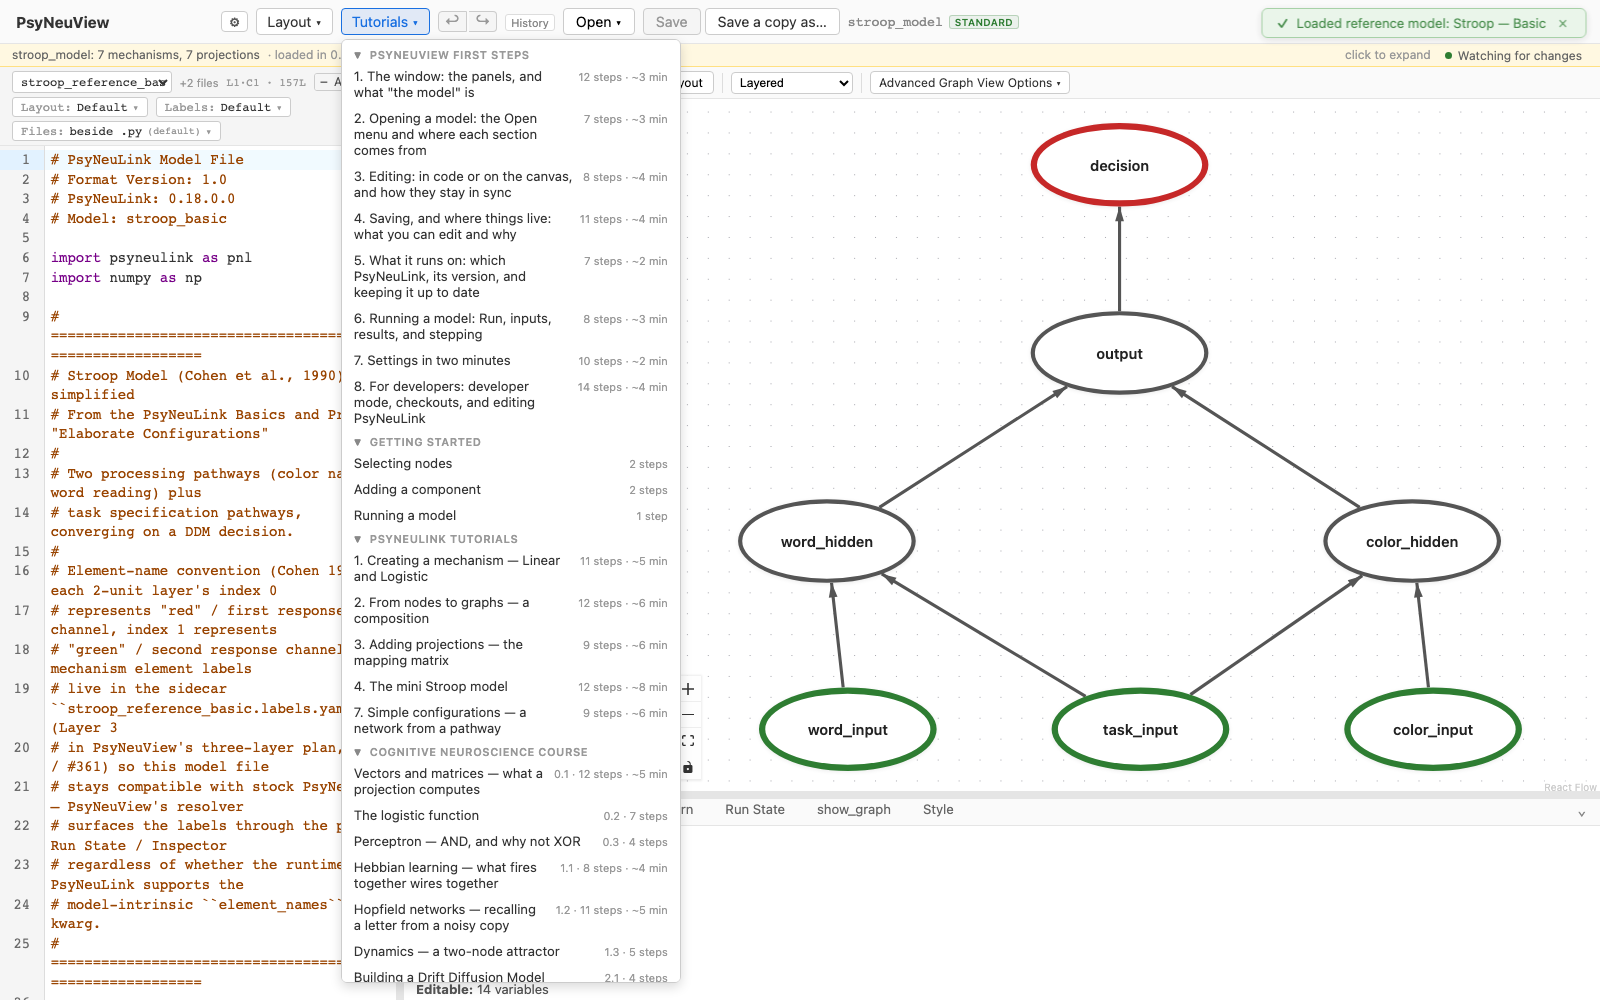
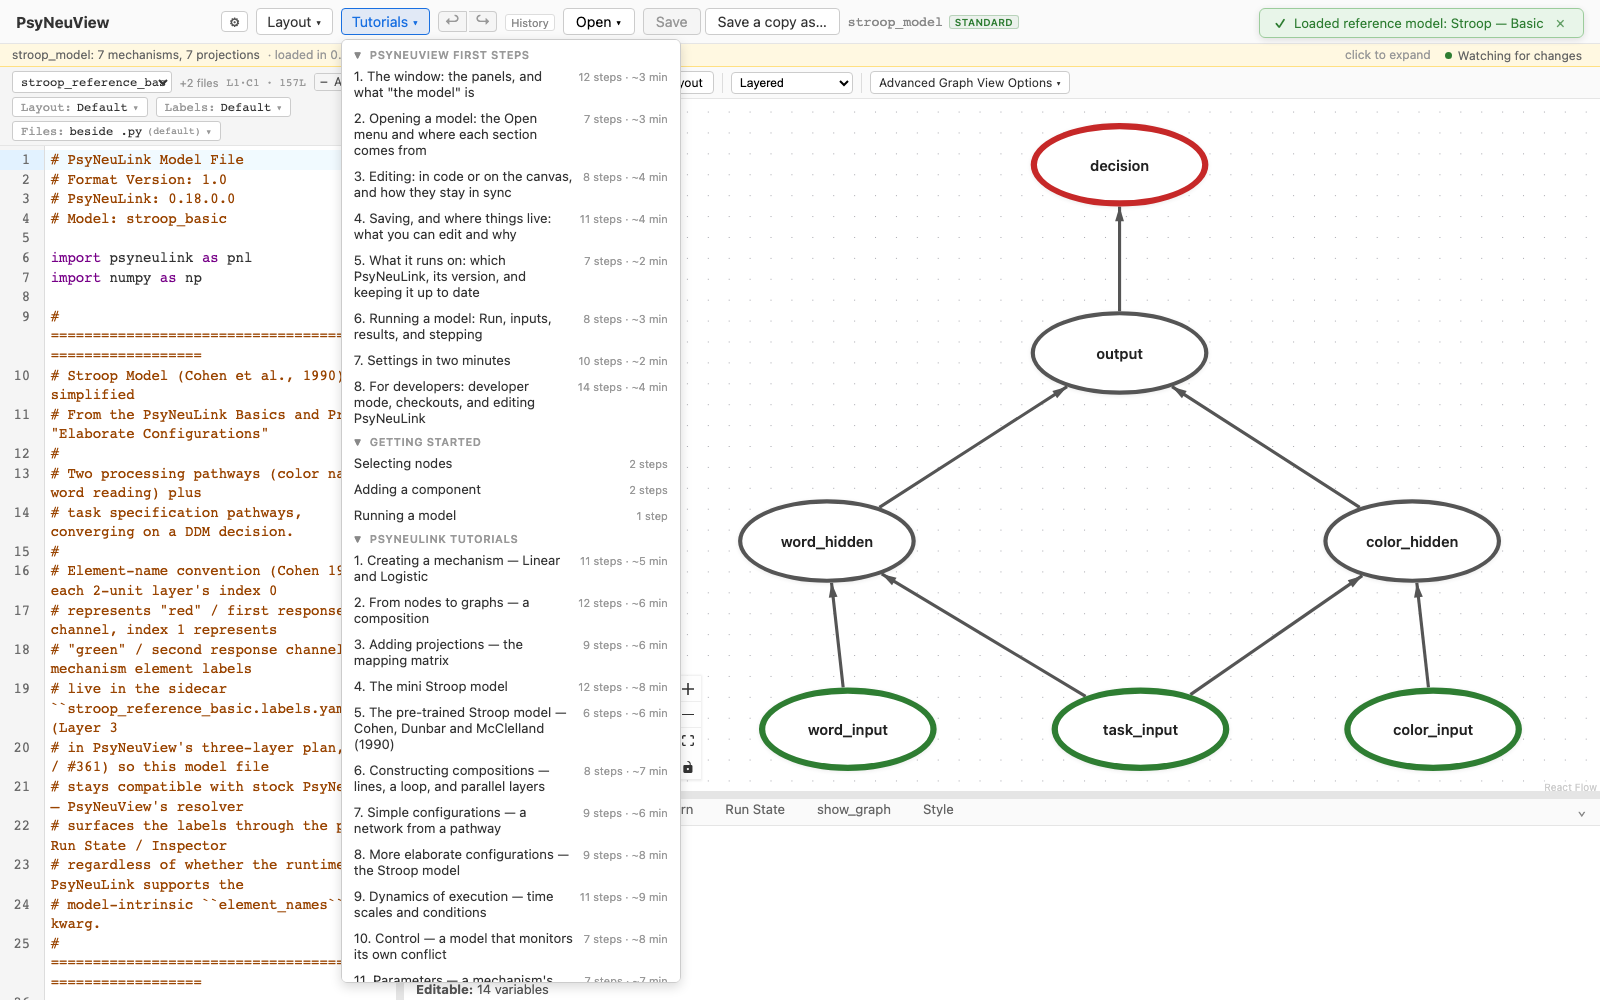
Hide the Cognitive Neuroscience Course by default, and credit its source (#136)
The course is for people taking it; most aren't. Settings ▸ Tutorials and
Voice ▸ Hide the Cognitive Neuroscience Course is now ticked by default, and
unticking it brings the section back. A walkthrough opened by link runs
either way, and an explicit choice already saved stands.

The setting's description links to the course's notebooks in PsyNeuLink's
repository: "Based on the Cognitive Neuroscience Course by Princeton
University's PsyNeuLink team".

Specs that need the course in the menu call showCourse() from test-base,
the way showSchedulingArrows() works.

Changed region(s): [[0.2188, 0.713, 0.4375, 0.992], [0.7812, 0.0, 0.9688, 0.031]]

diff --git a/frontend/e2e/tutorials-hide-course.spec.ts b/frontend/e2e/tutorials-hide-course.spec.ts
@@ -2,8 +2,9 @@
  * Settings ▸ Tutorials and Voice ▸ Tutorials ▸ Hide the Cognitive
  * Neuroscience Course (#136).
  *
- * Off by default, so the course's section is in the Tutorials menu. Turning
- * it on takes that one section out, the choice survives a reload, and a
+ * On by default, so the course's section is not in the Tutorials menu until
+ * someone taking the course unticks the box. Unticking brings that one section
+ * back, ticking takes it out again, each choice survives a reload, and a
  * course walkthrough opened by link still runs: hiding is about the menu only.
  */
 import { readOnlyTest, mutatingTest, expect } from "./test-base";
@@ -17,19 +18,34 @@ async function openMenu(page: Page) {
 }
 
 readOnlyTest.describe("Hide the Cognitive Neuroscience Course", { tag: "@ci" }, () => {
-  readOnlyTest("the course shows by default, and the setting hides it until a reload and after", async ({ page }) => {
+  readOnlyTest("the course is hidden by default, and the setting shows and hides it across reloads", async ({ page }) => {
     await page.goto("/");
     expect(await page.evaluate((k) => localStorage.getItem(k), HIDE_COURSE_KEY)).toBeNull();
     await openMenu(page);
-    await expect(page.getByTestId("walkthrough-group-course")).toBeVisible();
     await expect(page.getByTestId("walkthrough-group-general")).toBeVisible();
+    await expect(page.getByTestId("walkthrough-group-course")).toHaveCount(0);
     await page.keyboard.press("Escape");
 
+    // Unticking shows the course, and the choice survives a reload.
     await page.getByTestId("settings-button").click();
     await page.getByTestId("settings-section-tutorials-voice").click();
     const box = page.getByTestId("setting-hide-course");
-    await expect(box).not.toBeChecked();
-    await box.check();
+    await expect(box).toBeChecked();
+    await box.uncheck();
+    expect(await page.evaluate((k) => localStorage.getItem(k), HIDE_COURSE_KEY)).toBe("off");
+    await page.keyboard.press("Escape");
+    await openMenu(page);
+    await expect(page.getByTestId("walkthrough-group-course")).toBeVisible();
+    await page.keyboard.press("Escape");
+    await page.reload();
+    await openMenu(page);
+    await expect(page.getByTestId("walkthrough-group-course")).toBeVisible();
+    await page.keyboard.press("Escape");
+
+    // Ticking hides it again.
+    await page.getByTestId("settings-button").click();
+    await page.getByTestId("settings-section-tutorials-voice").click();
+    await page.getByTestId("setting-hide-course").check();
     expect(await page.evaluate((k) => localStorage.getItem(k), HIDE_COURSE_KEY)).toBe("on");
     await page.keyboard.press("Escape");
 

diff --git a/frontend/src/components/common/settings/TutorialsVoiceSection.tsx b/frontend/src/components/common/settings/TutorialsVoiceSection.tsx
@@ -29,7 +29,7 @@ import {
 } from "@/stores/tourHighlightStore";
 import { NarrationVoiceSetting } from "./NarrationVoiceSetting";
 import { useTutorialsMenuStore } from "@/stores/tutorialsMenuStore";
-import { Group, SettingLabel, mutedStyle, selectStyle } from "./shared";
+import { Group, SettingLabel, linkStyle, mutedStyle, selectStyle } from "./shared";
 
 export function TutorialsVoiceSection() {
   return (
@@ -120,11 +120,17 @@ function OrientationReminderSetting() {
   );
 }
 
+/** Where the course comes from: its notebooks in PsyNeuLink's repository. */
+const COURSE_SOURCE_URL =
+  "https://github.com/PrincetonUniversity/PsyNeuLink/tree/docs/refactor-documentation/docs/source/tutorials/cognitive_neuroscience_course";
+
 /**
  * Whether the Tutorials menu lists the Cognitive Neuroscience Course (#136).
- * Off by default, so the course shows. Hiding it is about the menu only: a
- * course walkthrough opened by link still runs.
+ * On by default, so the course is hidden until someone taking it unticks the
+ * box. Hiding it is about the menu only: a course walkthrough opened by link
+ * still runs. The attribution says where the course comes from.
  */
+
 function HideCourseSetting() {
   const hideCourse = useTutorialsMenuStore((s) => s.hideCourse);
   const setHideCourse = useTutorialsMenuStore((s) => s.setHideCourse);
@@ -140,8 +146,15 @@ function HideCourseSetting() {
       <span>
         Hide the Cognitive Neuroscience Course
         <span style={{ ...mutedStyle, display: "block" }}>
-          Leaves the course's walkthroughs out of the Tutorials menu. A course walkthrough opened by link still runs.
-          Remembered in this browser.
+          Leaves the course's walkthroughs out of the Tutorials menu; untick it to take the course. A course
+          walkthrough opened by link still runs. Remembered in this browser.
+          <span style={{ display: "block", marginTop: 4 }} data-testid="course-attribution">
+            Based on the{" "}
+            <a href={COURSE_SOURCE_URL} target="_blank" rel="noreferrer" style={linkStyle}>
+              Cognitive Neuroscience Course
+            </a>{" "}
+            by Princeton University's PsyNeuLink team, in the PsyNeuLink repository on GitHub.
+          </span>
         </span>
       </span>
     </label>

diff --git a/frontend/src/stores/tutorialsMenuStore.ts b/frontend/src/stores/tutorialsMenuStore.ts
@@ -2,9 +2,9 @@
  * What the Tutorials menu lists: Settings ▸ Tutorials and Voice ▸ Tutorials ▸
  * Hide the Cognitive Neuroscience Course (#136).
  *
- * The course's walkthroughs are one section of the menu. Someone who isn't
- * taking the course can hide that section; the setting is off by default, so
- * the course shows unless asked otherwise. Hiding is about the menu only: a
+ * The course's walkthroughs are one section of the menu, for people taking
+ * the course. Most aren't, so the section is hidden by default and someone
+ * taking the course turns it back on by unticking the box. Hiding is about the menu only: a
  * course walkthrough opened by link (`?tour=…`) still runs, since `?tour=`
  * looks the walkthrough up directly rather than through the menu.
  *
@@ -16,8 +16,8 @@
 import { create } from "zustand";
 import { recordSettingChanged } from "@/utils/activityLog";
 
-/** The one place the default lives: false shows the course, true hides it. */
-export const DEFAULT_HIDE_COURSE = false;
+/** The one place the default lives: true hides the course, false shows it. */
+export const DEFAULT_HIDE_COURSE = true;
 
 export const HIDE_COURSE_KEY = "psyneuview.tutorials.hideCourse";
 
@@ -27,7 +27,8 @@ export const COURSE_GROUP_ID = "course";
 export function loadHideCourse(): boolean {
   try {
     const v = localStorage.getItem(HIDE_COURSE_KEY);
-    return v === null ? DEFAULT_HIDE_COURSE : v === "on";
+    // Anything but an explicit choice reads as the default.
+    return v === "on" ? true : v === "off" ? false : DEFAULT_HIDE_COURSE;
   } catch {
     return DEFAULT_HIDE_COURSE;
   }

diff --git a/frontend/src/stores/tutorialsMenuStore.test.ts b/frontend/src/stores/tutorialsMenuStore.test.ts
@@ -1,6 +1,6 @@
 /**
  * Settings ▸ Tutorials and Voice ▸ Tutorials ▸ Hide the Cognitive
- * Neuroscience Course (#136): off by default, remembered per browser, and it
+ * Neuroscience Course (#136): on by default (the course is hidden), remembered per browser, and it
  * hides only the course's section of the Tutorials menu.
  */
 import { beforeEach, describe, expect, it } from "vitest";
@@ -34,8 +34,8 @@ describe("tutorialsMenuStore", () => {
     useTutorialsMenuStore.setState({ hideCourse: loadHideCourse() });
   });
 
-  it("shows the course by default, and the default is one constant", () => {
-    expect(DEFAULT_HIDE_COURSE).toBe(false);
+  it("hides the course by default, and the default is one constant", () => {
+    expect(DEFAULT_HIDE_COURSE).toBe(true);
     expect(loadHideCourse()).toBe(DEFAULT_HIDE_COURSE);
     expect(useTutorialsMenuStore.getState().hideCourse).toBe(DEFAULT_HIDE_COURSE);
   });
@@ -50,9 +50,9 @@ describe("tutorialsMenuStore", () => {
     expect(loadHideCourse()).toBe(false);
   });
 
-  it("ignores a value it does not recognise", () => {
+  it("reads a value it does not recognise as the default", () => {
     localStorage.setItem(HIDE_COURSE_KEY, "maybe");
-    expect(loadHideCourse()).toBe(false);
+    expect(loadHideCourse()).toBe(DEFAULT_HIDE_COURSE);
   });
 
   it("hides only the course's section, leaving every other section alone", () => {

diff --git a/frontend/e2e/test-base.ts b/frontend/e2e/test-base.ts
@@ -128,6 +128,20 @@ export async function showSchedulingArrows(page: import("@playwright/test").Page
 }
 
 /**
+ * The Cognitive Neuroscience Course is hidden from the Tutorials menu by
+ * default (#136). A spec that picks a course walkthrough from the menu, or
+ * checks the menu's sections, shows it the way a user would, by unticking
+ * Settings ▸ Tutorials and Voice ▸ Hide the Cognitive Neuroscience Course.
+ * Only when unset, so a spec that hides it and reloads keeps its choice.
+ */
+const HIDE_COURSE_KEY = "psyneuview.tutorials.hideCourse";
+export async function showCourse(page: import("@playwright/test").Page) {
+  await page.addInitScript((key) => {
+    if (localStorage.getItem(key) === null) localStorage.setItem(key, "off");
+  }, HIDE_COURSE_KEY);
+}
+
+/**
  * The test ids of the graph's view options that used to be More ▾ rows, by the
  * name the More menu gave them. They live in Advanced Graph View Options now
  * (#123): open it with `graph-view-options-button`, then click the checkbox.

diff --git a/frontend/e2e/tutorials-menu-folding.spec.ts b/frontend/e2e/tutorials-menu-folding.spec.ts
@@ -8,13 +8,17 @@
  * The shared fixture opens every section for other specs; these set the state
  * they need in their own init scripts, which run after the fixture's.
  */
-import { readOnlyTest, mutatingTest, expect, TUTORIALS_FOLDED_KEY } from "./test-base";
+import { readOnlyTest, mutatingTest, expect, TUTORIALS_FOLDED_KEY, showCourse } from "./test-base";
 import type { Page } from "@playwright/test";
 
 async function openMenu(page: Page) {
   await page.getByTestId("walkthrough-menu").click();
   await expect(page.getByTestId("walkthrough-menu-list")).toBeVisible();
 }
+
+// The course is hidden by default (#136); these specs fold and unfold it.
+readOnlyTest.beforeEach(async ({ page }) => showCourse(page));
+mutatingTest.beforeEach(async ({ page }) => showCourse(page));
 
 readOnlyTest.describe("Tutorials menu sections fold", { tag: "@ci" }, () => {
   readOnlyTest("first run: First Steps open, the others folded", async ({ page }) => {

diff --git a/frontend/e2e/tutorials/orientation-controls.tutorial.spec.ts b/frontend/e2e/tutorials/orientation-controls.tutorial.spec.ts
@@ -12,7 +12,7 @@
  *    speech (stubbed: nothing is heard, the call is what's asserted).
  */
 import type { Page } from "@playwright/test";
-import { readOnlyTest as test, expect, ORIENTATION_OFFER_KEY } from "../test-base";
+import { readOnlyTest as test, expect, ORIENTATION_OFFER_KEY, showCourse } from "../test-base";
 import { loadWalkthrough } from "../tourDriver";
 import path from "path";
 
@@ -20,6 +20,9 @@ const NARRATION_KEY = "psyneuview.tour.narration";
 const window1 = loadWalkthrough("orientation-window");
 
 test.use({ viewport: { width: 1600, height: 1000 } });
+
+// The course is hidden by default (#136); this spec needs it in the menu.
+test.beforeEach(async ({ page }) => showCourse(page));
 
 async function shot(page: Page, name: string) {
   if (process.env.SHOTS_DIR) await page.screenshot({ path: path.join(process.env.SHOTS_DIR, `${name}.png`) });

diff --git a/frontend/e2e/tutorials/walkthrough-menu.tutorial.spec.ts b/frontend/e2e/tutorials/walkthrough-menu.tutorial.spec.ts
@@ -8,7 +8,7 @@
  * Deliberately starts with **no** query parameter, because that is the whole
  * claim being tested.
  */
-import { readOnlyTest as test, expect } from "../test-base";
+import { readOnlyTest as test, expect, showCourse } from "../test-base";
 import { loadWalkthrough } from "../tourDriver";
 import { fileURLToPath } from "url";
 import path from "path";
@@ -24,6 +24,9 @@ const shot = (name: string) => path.join(ASSETS, name);
 const demo = loadWalkthrough("demo");
 
 test.use({ viewport: { width: 1600, height: 1000 } });
+
+// The course is hidden by default (#136); this spec needs it in the menu.
+test.beforeEach(async ({ page }) => showCourse(page));
 
 test.describe("Guided walkthroughs are discoverable", () => {
   test("the Tutorials menu lists them and starts one", async ({ page }) => {

diff --git a/frontend/e2e/tutorials/course-walkthrough-opens-model.tutorial.spec.ts b/frontend/e2e/tutorials/course-walkthrough-opens-model.tutorial.spec.ts
@@ -7,13 +7,16 @@
  * the PsyNeuLink Library's EGO (the obvious pick in the Open menu) also passed
  * the step, though it is not the Coffee Shop demo the walkthrough is written for.
  */
-import { mutatingTest as test, expect } from "../test-base";
+import { mutatingTest as test, expect, showCourse } from "../test-base";
 import type { Page } from "@playwright/test";
 
 const OTHER = "Stroop — Basic";
 const EGO = "EGO Coffee Shop";
 
 test.use({ viewport: { width: 1600, height: 1000 } });
+
+// The course is hidden by default (#136); this spec needs it in the menu.
+test.beforeEach(async ({ page }) => showCourse(page));
 
 async function openFromMenu(page: Page, label: string) {
   if (!(await page.getByTestId("open-menu-list").isVisible())) await page.getByTestId("open-menu").click();

diff --git a/docs/guided-walkthroughs.md b/docs/guided-walkthroughs.md
@@ -62,9 +62,10 @@ steps:
   Tutorials** in lesson order, between Getting started and the course (#9;
   the lesson list is in [the PsyNeuLink Tutorials page](tutorials/17-psyneulink-tutorials.md));
   the rest under **Getting started**. A walkthrough belongs to one section. The
-  course's section can be left out of the menu from Settings ▸ Tutorials and
-  Voice ▸ Tutorials ▸ **Hide the Cognitive Neuroscience Course** (off by
-  default, #136); `?tour=<id>` still opens a course walkthrough then.
+  course's section is left out of the menu by default: Settings ▸ Tutorials
+  and Voice ▸ Tutorials ▸ **Hide the Cognitive Neuroscience Course** (on by
+  default, #136) brings it back when unticked; `?tour=<id>` opens a course
+  walkthrough either way.
 - `say:` is the caption: **the one sentence you'd say aloud**. The
   instruction is **what you'd point at**, with the exact control names. Every
   step has a caption (a unit test fails otherwise), with no code names, and

diff --git a/docs/settings-and-mac-app.md b/docs/settings-and-mac-app.md
@@ -99,7 +99,7 @@ How the app looks and feels, remembered per browser:
 
 - **Voice**: the **Narration voice** that reads walkthrough captions — Automatic (the best English voice installed) or any installed English voice, with ▶ Play sample and how to download a free Premium voice — and the **Speaking rate**
 - **Tutorials**: the **PsyNeuView First Steps reminder** (offer again, remind in the Tutorials menu, or don't)
-- **Hide the Cognitive Neuroscience Course** (off by default; leaves the course's section out of the Tutorials menu, while a course walkthrough opened by link still runs, #136)
+- **Hide the Cognitive Neuroscience Course** (on by default; leaves the course's section out of the Tutorials menu until unticked, while a course walkthrough opened by link still runs; links to the course's source, #136)
   - Narration on/off stays on the walkthrough bar
 
 #### Open menu

diff --git a/docs/tutorials/16-course-walkthroughs.md b/docs/tutorials/16-course-walkthroughs.md
@@ -21,10 +21,10 @@ linked directly with `?tour=<id>`, e.g. `?tour=ddm`.
 The menu's sections fold: click a heading (▼/▶) to show or hide its
 walkthroughs. The first time, PsyNeuView First Steps is open and the rest are
 folded; after that the menu remembers your choice, and the section of a running
-walkthrough opens by itself. Not taking the course? Settings ▸ Tutorials and
-Voice ▸ Tutorials ▸ **Hide the Cognitive Neuroscience Course** leaves this
-section out of the menu (off by default); a `?tour=` link to a course
-walkthrough still works.
+walkthrough opens by itself. The course's section is hidden by default: to
+take the course, untick Settings ▸ Tutorials and Voice ▸ Tutorials ▸ **Hide
+the Cognitive Neuroscience Course**. A `?tour=` link to a course walkthrough
+works either way.
 
 ![The Tutorials menu](assets/tour/menu.png)
 
